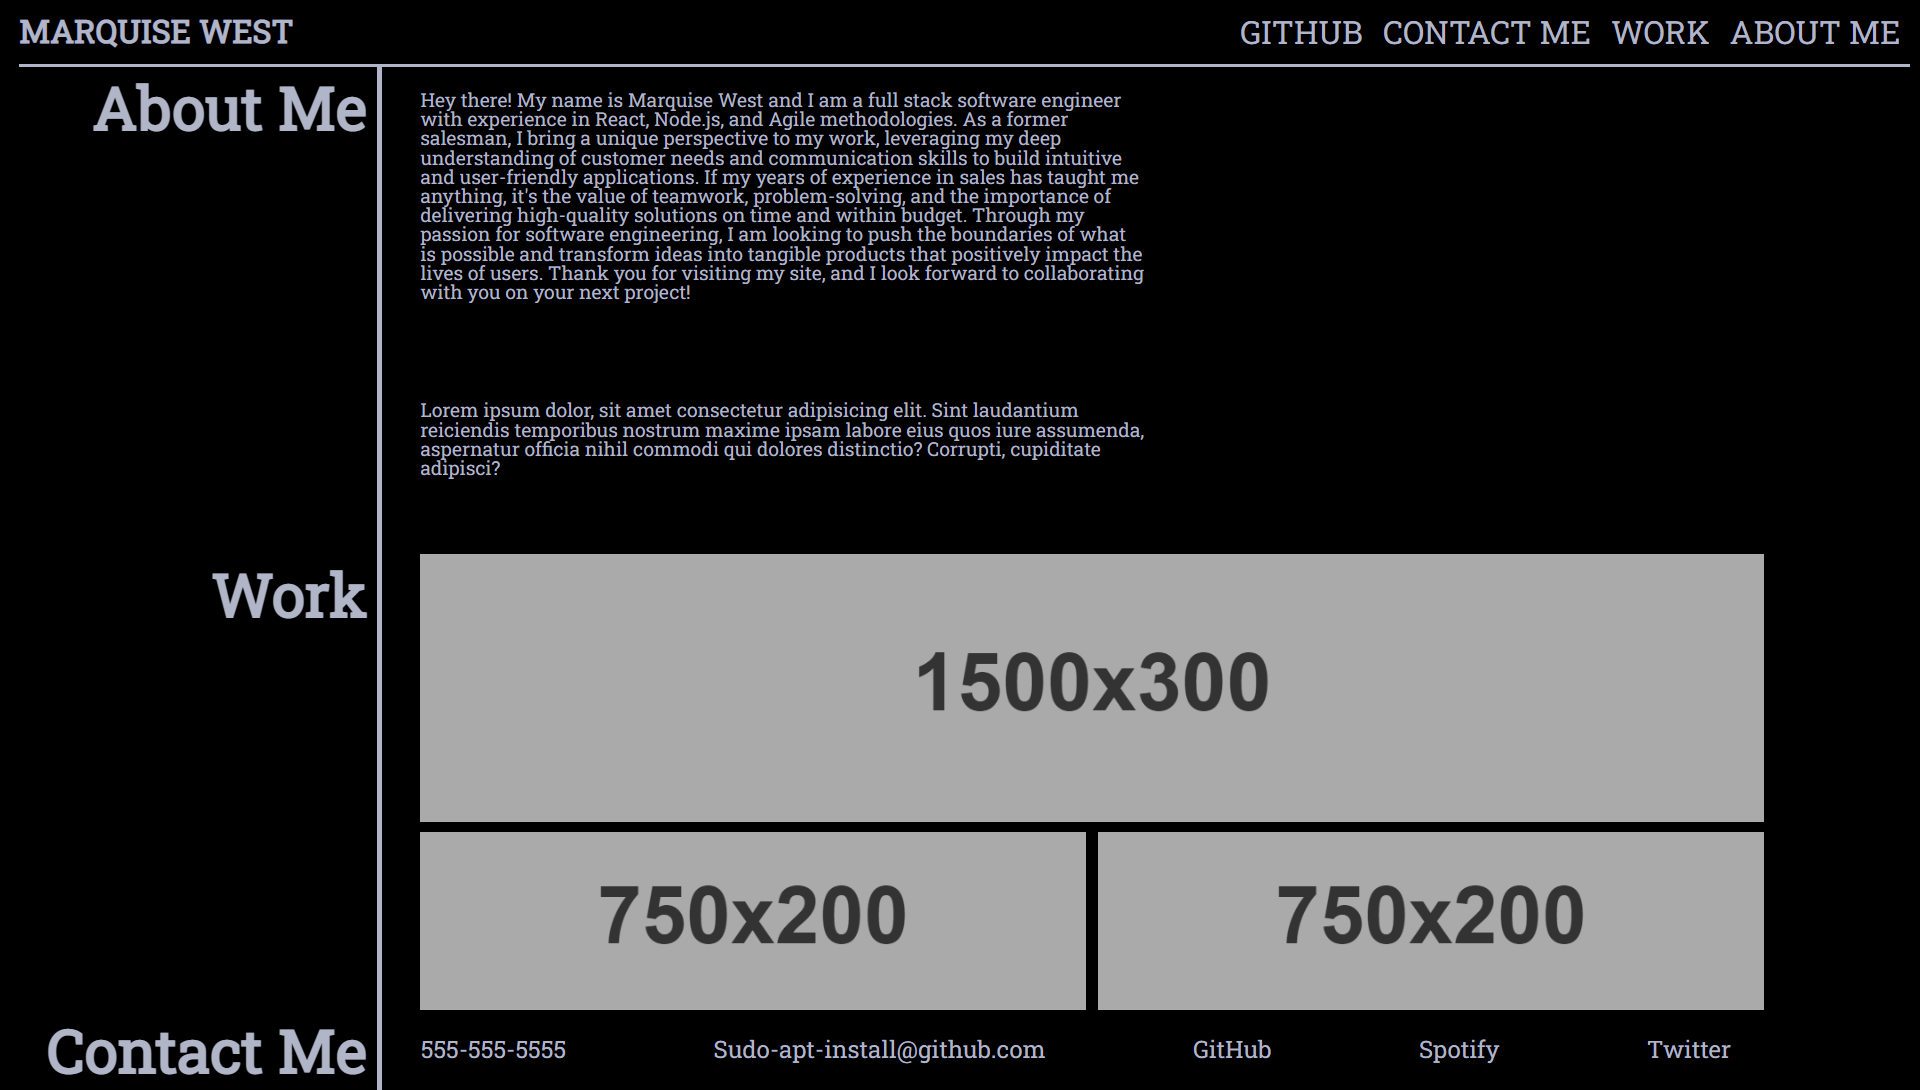
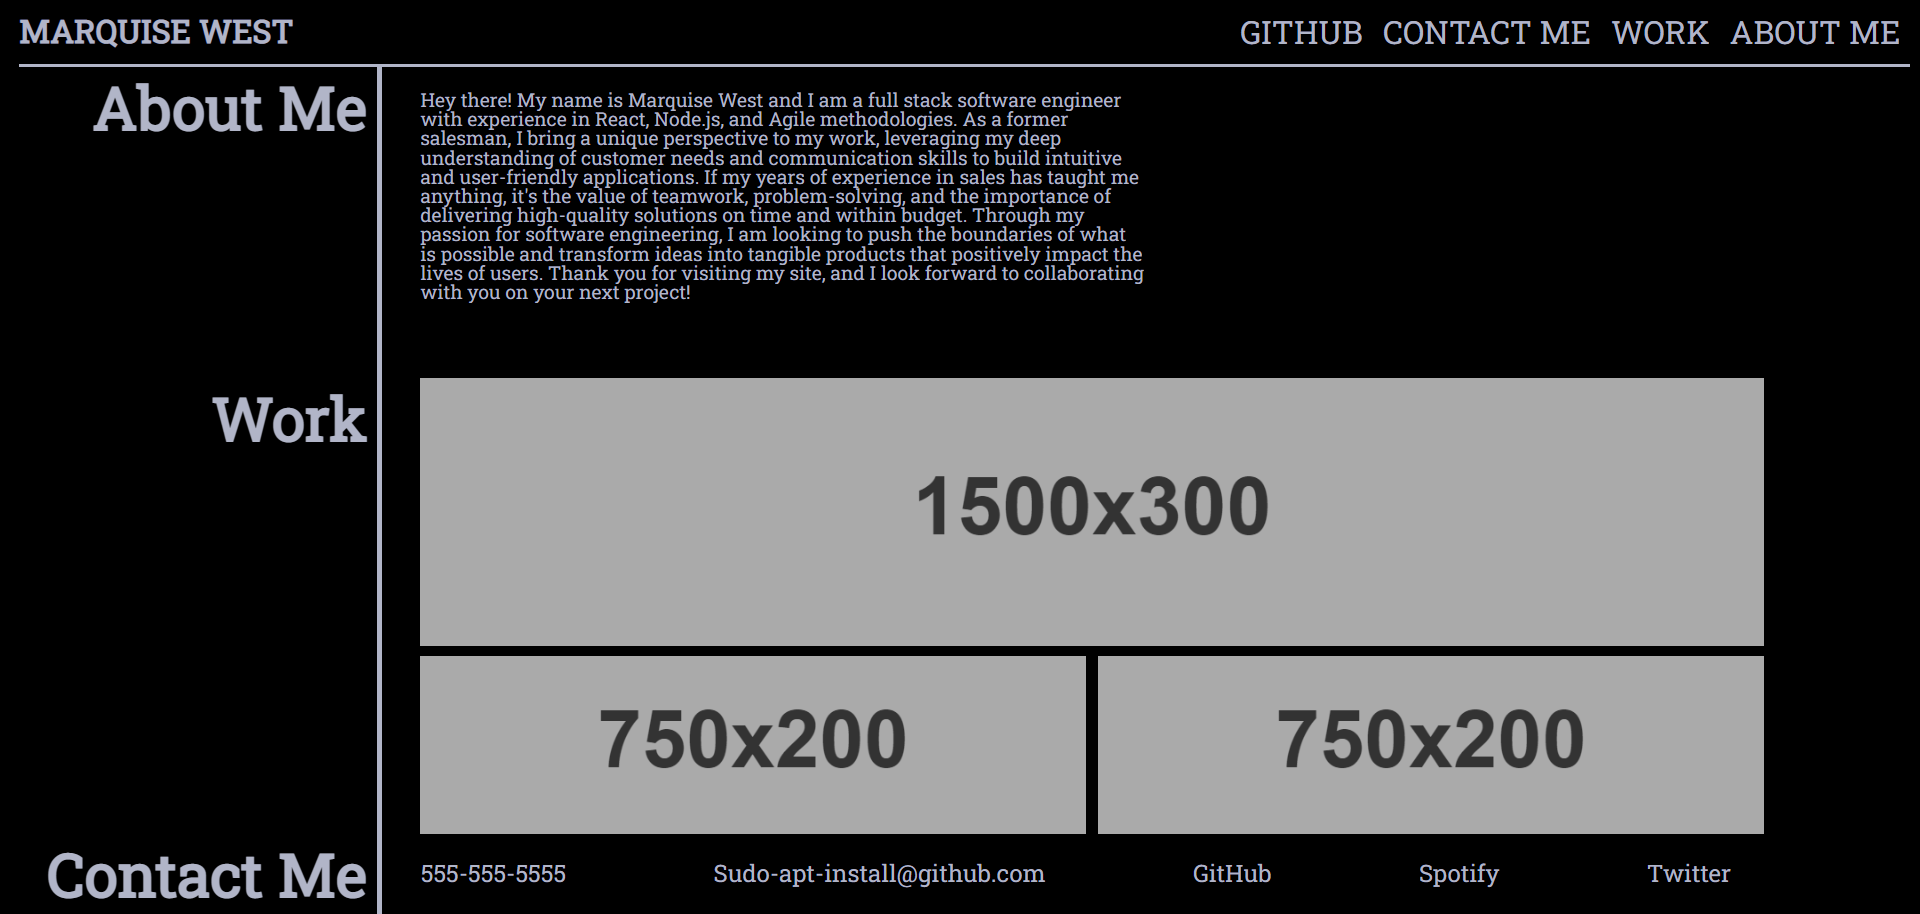
photo update

diff --git a/index.html b/index.html
@@ -49,12 +49,6 @@
             site, and I look forward to collaborating with you on your next
             project!
           </p>
-          <p>
-            Lorem ipsum dolor, sit amet consectetur adipisicing elit. Sint
-            laudantium reiciendis temporibus nostrum maxime ipsam labore eius
-            quos iure assumenda, aspernatur officia nihil commodi qui dolores
-            distinctio? Corrupti, cupiditate adipisci?
-          </p>
         </div>
       </section></main>
       <section class="section-2">
@@ -66,7 +60,7 @@
         </div>
       </section>
 
-      <section class="section-3">
+      <section class="section-3" id="contact-me">
         <h2>Contact Me</h2>
         <div>
           <ul>
